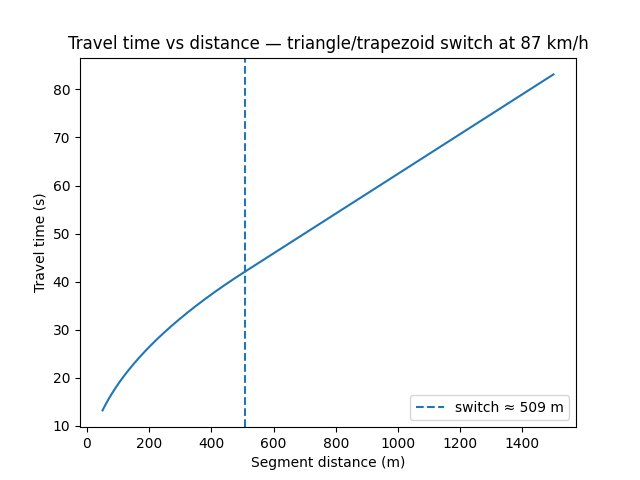
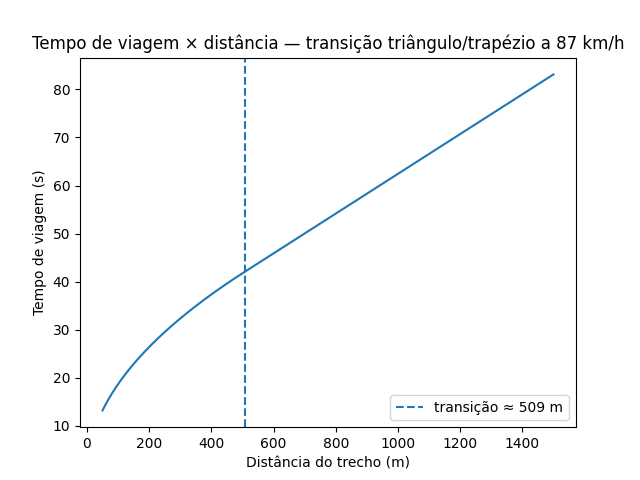
FIX: website name

diff --git a/web/index.html b/web/index.html
@@ -4,7 +4,7 @@
     <meta charset="UTF-8" />
     <link rel="icon" type="image/svg+xml" href="/favicon.svg" />
     <meta name="viewport" content="width=device-width, initial-scale=1.0" />
-    <title>CitizenTech - Metrô SP</title>
+    <title>Detour — o melhor caminho pelo metrô de SP</title>
   </head>
   <body>
     <div id="root"></div>

diff --git a/python/prompt.md b/python/prompt.md
@@ -1,0 +1,177 @@
+🌐 [Português](ptBR/prompts.md) · **English**
+
+# AI Usage — Python Application
+
+## Tools used
+
+| Tool | Purpose |
+|---|---|
+| Claude (Anthropic) | Mentoring: reading and interpreting the brief, discussing the idea and the architecture, questions and hints during development, initial repository structure and documentation |
+
+## Prompts used
+
+### 1. Reading the brief — 2026-11-08
+
+> Hey claude, read the pdf and completely understand what is being asked to guide me as we come up and build this solution. [...] You will work as my mentor guiding me same thing as we've been doing this whole semester, but readmes, the scaffolding of the project, gitignores and a 3d model (if we go with my idea) and the prompts.md file is on you.
+
+**Result:** a summary of each course's deliverables, the shared requirements (CitizenTech Sheet, SDGs, real or simulated data) and the 11/19 deadline.
+
+### 2. Solution idea — 2026-11-08
+
+> I wanted to integrate the python with the front end, so i wanted a 2d or 3d map of the whole Sao Paulo's subway system connected to an api [...] that tracks if the lines are good to go or if they are delayed and we can use the differentiated problem solving part to create a calculation to see which path within the subway system is faster.
+
+**Result:** the AI researched and pointed out that Metrô offers no official public status API (the status is published on the "Direto do Metrô" site and by community scraping projects), and that finding the fastest route is a graph problem, not a differential and integral calculus one.
+
+### 3. Real data only — 2026-11-08
+
+> I don't want to use any simulated data can we still make this work as i described and what would you suggest for the differentiated project
+
+**Result:** line status fetched from the official site through a serverless function (working around CORS) and with `urllib` in the CLI; network and stations from public datasets; CRUD operations on records the user creates. For the math, it suggested modeling the train's motion between stations — the computed time becomes the weight of each graph edge.
+
+### 4. Python in the browser — 2026-11-08
+
+> I don't want the function to be primarily cli and want it to work in the browser and we later add a function to make it work as a CLI
+
+**Result:** the logic lives in a Python package with no input/output (`metro/`), run in the browser through Pyodide and imported by the CLI (`main.py`).
+
+### 5. Initial structure — 2026-11-08
+
+> can you do the initial scaffolding?
+
+**Result:** folders, `.gitignore`, READMEs, this file and `AI.md`. The `metro/` modules were created empty, each with only a description of its responsibility.
+
+### 6. Bilingual documentation — 2026-11-08
+
+> I want both, make a enUS folder and a ptBR folder for each document and fill them in please
+
+**Result:** every document now exists in `ptBR/` and `enUS/`; the files at the locations the rubrics require hold the English version, which is the source the other copies follow.
+
+### 7. English as the main version — 2026-11-08
+
+> just switch so the main files are in english as this is the files that if needed i will add or change
+
+**Result:** the files at the required locations now hold the English version.
+
+### 8. Repository scope — 2026-11-08
+
+> You can remove STXD and the pitch from this repo this is only for the source code and math
+
+**Result:** the repository holds only the source code (Python and web) and the math models; the math models are written in Python.
+
+### 9. Data preparation, guided — 2026-11-09/10
+
+> lets code / check it please (series of review requests while writing `data-prep/build_network.py`)
+
+**Result:** the AI first wrote a data-prep script on its own; Raul pointed out that the code was supposed to be his, so it was deleted and he rewrote it himself. Over two sessions the AI guided him with questions and short explanations (GeoPackage as SQLite, reading the geometry blob with `struct`, UTM coordinates in meters, Pythagoras for distances, `sort(key=...)`, `json.dump` options). On Raul's explicit request, the AI supplied the final sorting lines (sort Line 1 by Y, the others by X). The output is `python/data/network.json`: 93 stations and 87 neighbor distances.
+
+### 10. Python core design and real data — 2026-11-13
+
+> lets tackle what we have to tackle today / what about the other line? isn't there another one missing
+
+**Result:** guided design of `metro/`. Raul decided on one graph node per (station, line) so line changes can carry a cost. Transfer cost = half the headway of the line being boarded (the AI explained the average-wait reasoning). Real values were researched together: headways from Metrô's CSV, the ViaQuatro infographic (Line 4) and Metrô's 2019 report (Line 5, found by Raul); end-to-end times for Lines 4 and 5 (Raul found the 21–25 min and 36 min figures; the AI found the operator's 20 min); the Paulista↔Consolação tunnel crossing (8 min 20 s, Metrô/ViaQuatro average). Raul wrote `travel_time.py`.
+
+### 11. Graph builder — 2026-11-13
+
+> check it please / take control and fix it please
+
+**Result:** Raul wrote `BuildGraph` with step-by-step hints (adjacency dict, `setdefault`, tuple edges). On explicit request, the AI fixed two lines (the `return` indentation and the data path). The AI created `check_core.py`, a runnable test bench, after Raul couldn't run package modules with VS Code's ▶ button.
+
+### 12. Dijkstra — 2026-11-13
+
+> check please (series of reviews)
+
+**Result:** Raul wrote `FastestRoute` (relaxation rule derived by him through questions; `heapq` explained in a mini-lesson) and the path rebuild from `prev`. Verified: Artur Alvim → Paraíso = 2110.7 s with a transfer at Sé; Capão Redondo → Luz ≈ 51 min, close to the World Bank's ~50 min Capão→Sé.
+
+### 13. Unit annotations — 2026-11-13
+
+> can you add the units next to the numbers that we already did? this way i will have an example on how to start doing that from now on
+
+**Result:** the AI added unit comments (`[m]`, `[s]`, `[m/s]`, unit algebra) to the three core files, without changing any logic.
+
+### 14. Line status parser — 2026-11-14
+
+> check my progress please (series of reviews)
+
+**Result:** Raul wrote `LineStatusParser` (an `HTMLParser` subclass) from a skeleton and hints, and found real examples of every non-normal status on the Wayback Machine; the AI saved them as test files in `data-prep/raw/`. On request, the AI renamed the parser methods back to the names `HTMLParser` requires, and supplied the final `ParseStatus` lines that return status + description.
+
+### 15. Status-aware routing — 2026-11-14
+
+> lets tackle the color sitch / so for paralisada we don't need to remove the edge can't we just add a factor of zero?
+
+**Result:** the AI showed that Metrô publishes no speed figure for "Velocidade Reduzida", so the reduction is a documented assumption (`REDUCED_SPEED_FACTOR = 0.5`). Raul chose it, wrote the `factor` parameter in `SegmentTime` and wired the statuses into `BuildGraph`; closed lines lose their edges (a factor of 0 would divide by zero). Raul argued that per-line slowdowns are realistic because of train bunching.
+
+### 16. CLI route option — 2026-11-14
+
+> can you do that im too tired now
+
+**Result:** Raul built the menus (`while` + `match/case`) and the status option. On explicit request, the AI wrote `Normalize`, `FindNodes`, `BestRoute` and `PrintRoute` in `main.py` and wired them into the route option.
+
+### 17. Saved trips storage — 2026-11-15
+
+> ok I was thinging bout this saved trips option [...] / oh i didn't know that json persistance was required how do you think wqe should tackle this part then?
+
+**Result:** Raul first planned to keep trips in a dict in memory; the AI pointed out that the brief requires JSON persistence. Together they decided that a trip stores only its name, origin and destination: the route is recalculated with that day's status instead of being saved stale. Raul wrote `storage.py` (`LoadTrips`, which creates the file on first run, and `SaveTrips`) with hints.
+
+### 18. Saving, renaming and deleting trips — 2026-11-15
+
+> please do the rest of this option and lets move / than take care of the update and delete for me deal?
+
+**Result:** Raul wrote the save prompt after a route and the trip list (with `enumerate`, explained in a mini-lesson). On explicit request, the AI fixed the save step (it compared against `"y"` while the prompt says `[s/N]`, and it built a tuple instead of a dict) and wrote the rename and delete options (`ListTrips`, `PickTrip`, `option_saved_trips`).
+
+## Features developed, suggested or modified with AI
+
+| Item | AI's role |
+|---|---|
+| Core (`metro/`) × CLI (`main.py`) split | Suggested |
+| Folder structure, READMEs, `.gitignore` | Generated |
+| Documentation translation (ptBR/enUS) | Generated |
+| `data-prep/build_network.py` | Guided (written by Raul); final sort lines supplied by the AI on request |
+| `metro/travel_time.py`, `metro/routing.py` | Guided (written by Raul) |
+| `metro/network.py` | Guided (written by Raul); two-line fix by the AI on request |
+| `metro/line_status.py` | Guided (written by Raul); method rename and `ParseStatus` return supplied by the AI on request |
+| Unit comments in `metro/` | Generated on request |
+| `check_core.py` (test bench) | Generated |
+| `main.py` menus and status option | Guided (written by Raul) |
+| `main.py` `Normalize`, `FindNodes`, `BestRoute`, `PrintRoute` | Generated on request |
+| `Normalize`, `FindNodes`, `BestRoute` moved from `main.py` to `metro/routing.py` (2026-11-15), so the website uses the same code | Moved on request |
+| Status test files in `data-prep/raw/` | Found by Raul (Wayback Machine), saved by the AI |
+| `storage.py`, save prompt and trip list in `main.py` | Guided (written by Raul) |
+| `main.py` save fixes, rename and delete (`PickTrip`, `option_saved_trips`) | Generated on request |
+
+## Verification, testing and adjustments
+
+How the code was checked:
+
+- **Graph:** `check_core.py` builds the network from `data/network.json`: 93 nodes (station, line) and 192 edges, including the 8 same-name transfers and the Paulista ↔ Consolação walk.
+- **Status parser:** tested on four real saved copies of the "Direto do Metrô" page: one live (14/11/2026, all lines normal) and three from the Wayback Machine with Velocidade Reduzida, Operação Parcial and Paralisada. All four statuses and their descriptions come out correctly.
+- **Routes against reality:** Capão Redondo → Luz ≈ 51 min, close to the World Bank's ~50 min for Capão → Sé. Artur Alvim → Paraíso ≈ 35 min with a transfer at Sé. Sé → Luz ≈ 3 min.
+- **Status effects:** the same trip gets longer when a line on it has reduced speed, and returns "Não há rota disponível" when the only line is stopped.
+- **CLI inputs:** station names with or without accents and in any case; an unknown station; an invalid menu option; no internet connection (it shows the message and returns to the menu instead of crashing).
+- **Saved trips:** save two trips in a row (the second is appended, not overwritten), list, rename, delete, invalid trip numbers (`9`, `abc`), and an empty list.
+
+Bugs found by testing and fixed:
+
+- The speed reduction was first also applied to the stop overhead, which made a "slower" line come out faster. The factor now applies only to the cruise speed.
+- `main.py` fetched the status at import time with no error handling, so the program crashed offline. The fetch now happens inside a function with `try/except`.
+- A `return` inside a loop stopped `BuildGraph` and `ParseStatus` after the first item.
+- The save step compared the answer to `"y"` while the prompt asks `[s/N]`, so trips were never saved.
+- An f-string with nested double quotes only runs on Python 3.12+. It was changed so the program runs on 3.10 and 3.11.
+
+## Critical analysis
+
+**Where the AI helped:** turning the brief into a plan, finding real data sources (headways, commercial speeds, the Wayback Machine copies), explaining new concepts (graphs, Dijkstra, `heapq`, `HTMLParser`, `setdefault`, `enumerate`) and reviewing code. The core in `metro/` was written by Raul; the AI wrote only the parts listed above as "Generated", always on request.
+
+**Where the AI was wrong or needed correcting:**
+- It sometimes gave too much code when Raul wanted hints, and he had to ask it to go back to questions.
+- It once claimed a 2 cm error in the integral using a rounded distance; with the exact distance the error was smaller.
+- It wrote the first data-prep script on its own; Raul pointed out it should be his, so it was deleted and he rewrote it.
+
+**Limitations of the solution:**
+- Metrô publishes no number for "Velocidade Reduzida". The 50% reduction is an assumption.
+- The status applies to the whole line, not to the segment where the problem is, because the official page doesn't say which segment is affected.
+- The stop overhead is a daily average. It doesn't change with the time of day or with reduced speed.
+- Distances between stations are straight lines between station coordinates, not track length.
+- The status depends on the HTML of the official page. If Metrô changes the page layout, the parser has to be updated.
+- Without internet, options 1 and 2 don't work: there is no cached status.
+
+**Conclusion:** the AI worked best as a mentor and a reviewer. Every number it brought was checked against a source, and every piece of code was run before being accepted.

diff --git a/Claude outputs/pickup-2.md b/Claude outputs/pickup-2.md
@@ -57,6 +57,12 @@
 ## Web rubric checklist
 React (Vite) + Tailwind, ≥8 components, useState + useEffect, ≥2 custom hooks, logic separated from presentation, external API with full CRUD, ≥15 meaningful commits, Vercel deploy (Root = `web`), ZIP, README, AI.md, private repo with professors' write access. Staying in JavaScript (no TS).
 
+## SUBMITTED (Tue 11:49): Python ZIP, Web Development, Front-end Design (each: repo link + gs_Web ZIP + deploy link). Remaining: STXD PDF (ready), Math PDF (fixes pending), Pitch (deck + video + email doc, Wed).
+
+## STXD deck (Claude, Tue 11:36) — https://claude.ai/artifact/9pTQFP6idsvi6Y5Zi6Y8P2
+13 slides PT: cover (Time: Detour (individual)), problema, escopo, RF/RNF/RN (6 each, with justification), caso de uso, protótipo ×3 (real screenshots 800px + Nielsen heuristics), tom de voz, roadmap, fim. Raul reviewed: OK. Brief says only "slides publicados no Teams" → export PDF (Share › Export) to submit. Optional: swap HD screenshots.
+- Web CRUD DONE Tue 11:20 (tripsService + useSavedTrips by Raul; save button, SavedTripsMenu, SavedTripItem, ActionIcons by Claude). README/AI.md updated (entries 14–15).
+
 ## Brand decisions (Raul, Tue 00:50)
 1. Problem/solution (his words): "Detour allows the commuter to proactively find a better way to his destination instead of just waiting for life to catch on" — this is the *solution*; proposed *problem* sentence: "When a metro line slows down or stops, commuters only find out on the platform and lose time waiting instead of taking a better way."
 2. Impact indicator: minutes saved per trip (computable: route with live status vs. route ignoring it, when a line has a problem).

diff --git a/python/ptBR/prompts.md b/python/ptBR/prompts.md
@@ -133,6 +133,7 @@
 | `check_core.py` (arquivo de testes) | Gerado |
 | Menus do `main.py` e opção de status | Guiados (escritos por Raul) |
 | `Normalize`, `FindNodes`, `BestRoute`, `PrintRoute` do `main.py` | Gerados a pedido |
+| `Normalize`, `FindNodes`, `BestRoute` movidos do `main.py` para `metro/routing.py` (15/11/2026), para o site usar o mesmo código | Movidos a pedido |
 | Arquivos de teste de status em `data-prep/raw/` | Encontrados por Raul (Wayback Machine), salvos pela IA |
 | `storage.py`, pergunta de salvar e listagem de viagens no `main.py` | Guiados (escritos por Raul) |
 | Correções do salvar, renomear e apagar no `main.py` (`PickTrip`, `option_saved_trips`) | Gerados a pedido |

diff --git a/python/enUS/prompts.md b/python/enUS/prompts.md
@@ -133,6 +133,7 @@
 | `check_core.py` (test bench) | Generated |
 | `main.py` menus and status option | Guided (written by Raul) |
 | `main.py` `Normalize`, `FindNodes`, `BestRoute`, `PrintRoute` | Generated on request |
+| `Normalize`, `FindNodes`, `BestRoute` moved from `main.py` to `metro/routing.py` (2026-11-15), so the website uses the same code | Moved on request |
 | Status test files in `data-prep/raw/` | Found by Raul (Wayback Machine), saved by the AI |
 | `storage.py`, save prompt and trip list in `main.py` | Guided (written by Raul) |
 | `main.py` save fixes, rename and delete (`PickTrip`, `option_saved_trips`) | Generated on request |

diff --git a/python/prompts.md b/python/prompts.md
@@ -133,6 +133,7 @@
 | `check_core.py` (test bench) | Generated |
 | `main.py` menus and status option | Guided (written by Raul) |
 | `main.py` `Normalize`, `FindNodes`, `BestRoute`, `PrintRoute` | Generated on request |
+| `Normalize`, `FindNodes`, `BestRoute` moved from `main.py` to `metro/routing.py` (2026-11-15), so the website uses the same code | Moved on request |
 | Status test files in `data-prep/raw/` | Found by Raul (Wayback Machine), saved by the AI |
 | `storage.py`, save prompt and trip list in `main.py` | Guided (written by Raul) |
 | `main.py` save fixes, rename and delete (`PickTrip`, `option_saved_trips`) | Generated on request |
